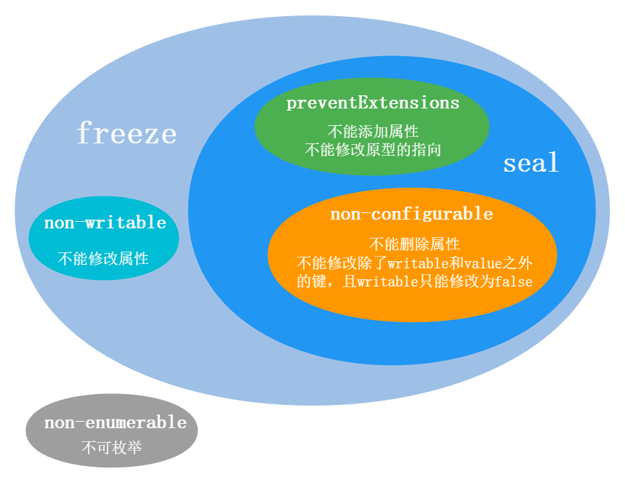
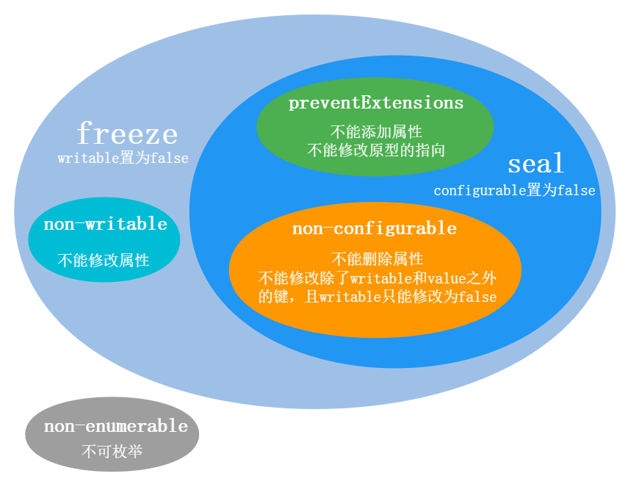
fix: 属性描述符特性表优化

diff --git a/docs/pages/js/descriptor.md b/docs/pages/js/descriptor.md
@@ -619,14 +619,14 @@ array // [1]
 | 特性 | `preventExtensions` | `seal` | `freeze` |
 | - | - | - | - |
 | `isExtensible`| `false` | `false` | `false` |
-| `isSealed` | - | `true` | `true` |
-| `isFrozen` | - | - | `true` |
+| `isSealed` | `false` | `true` | `true` |
+| `isFrozen` | `false` | `false` | `true` |
 | 添加属性 | 否 | 否 | 否 |
 | 修改原型的指向 | 否 | 否 | 否 |
-| `configurable`置为`false` | - | 是 | 是 |
-| 删除属性 | - | 否 | 否 |
-| 修改描述符的键值 | - | 不能修改除了`writable`和`value`之外的键，`writable`只能修改为`false` | 都不能修改 |
-| `writable`置为`false` | - | - | 是 |
+| `configurable`置为`false` | 否 | 是 | 是 |
+| 是否可删除属性 | 是 | 否 | 否 |
+| 修改描述符的键值 | 可修改 | 不能修改除了`writable`和`value`之外的键，`writable`只能修改为`false` | 都不能修改 |
+| `writable`置为`false` | 否 | 否 | 是 |
 
 &emsp;&emsp;关系图。
 
